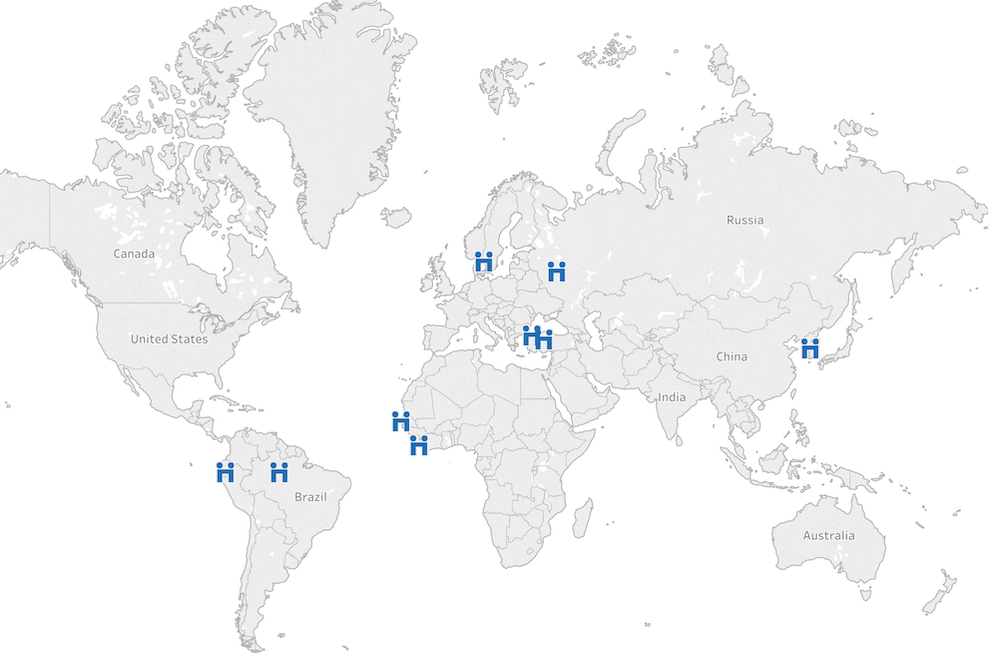
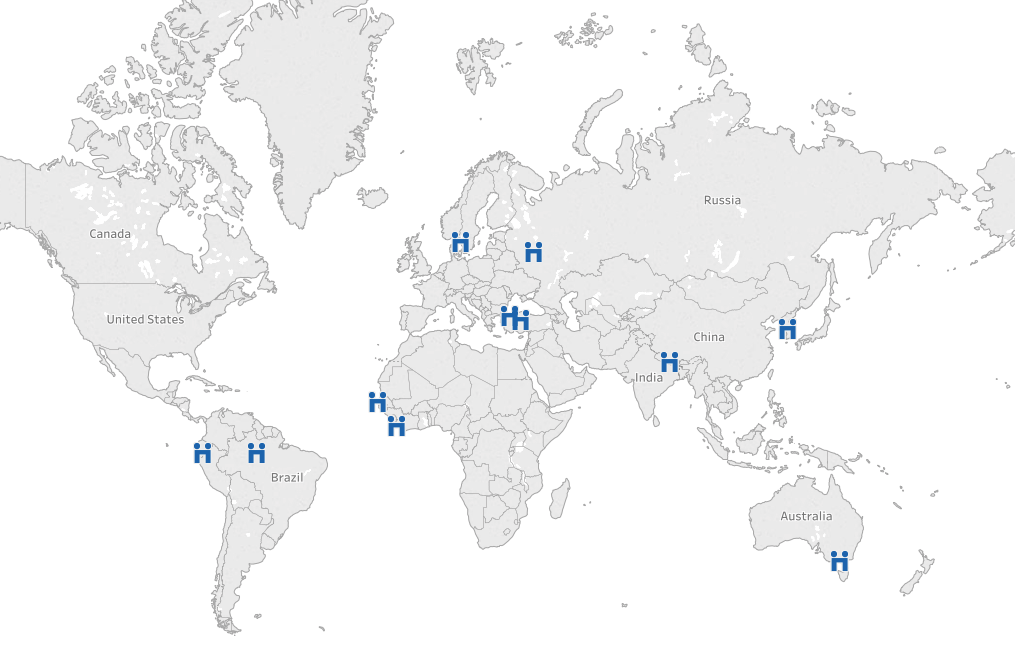
Added more events

diff --git a/layouts/financing-gap/financing-gap.html.html b/layouts/financing-gap/financing-gap.html.html
@@ -80,15 +80,43 @@
        
                 </div>
             </section>
+
+                        <!-- Section -->
+            <section>
+                <header class="left-pane">
+                    <h2>Sign the pledge to ask the world’s richest to help end extreme poverty</h2>
+                </header>
+                <div class="content">
+                    <p>
+                        Add your name to the list of people calling on the billionaires of the world to contribute to making the SDGs a reality
+                    </p>
+                    <ul class="actions">
+                        <li><a href="https://www.globalcitizen.org/en/action/sign-ask-billionaires-help-end-extreme-poverty/" class="button large">Sign the pledge</a></li>
+                    </ul>
+                </div>
+            </section>
+
+                <section>
+                    <header class="left-pane">
+                        <h2>Everyone has a role to play - let's mobilize billions for billions.</h2>
+                    </header>
+                    <div class="content">
+                        <div class="image fit">
+                            <a href="https://public.tableau.com/views/SDGFinancingxMoveHumanityCampaign-SDSNYouth/SDGFinancingxMoveHumanityCampaign-SDSNYouth?:embed=y&:display_count=yes&publish=yes" >
+                                <img src="{{ $.Site.BaseURL }}/images/move-humanity/move-humanity-events-2018.png" />
+                            </a>
+                        </div>
+                    </div>
+                </section>
     
     
         <!-- Section -->
             <section>
                 <header class="left-pane">
-                    <h2>Social Media</h2>
+                    <h2>Social Media and Events</h2>
                 </header>
                 <div class="content">
-                    <p><strong>Spread the word</strong>. Share any of these graphics onto social media.</p>
+                    <p><strong>Spread the word</strong>. Share any of these graphics onto social media, and take a look at the events we ran in 2018.</p>
     
                     <!-- Section -->
                         <section>
@@ -127,7 +155,7 @@
                         </section>
                         <section>
                             <header class="left-pane">
-                                <h3>SDSN Youth South Korea</h3>
+                                <h3>SDSN Youth Republic of Korea</h3>
                                 <p>Move Humanity Conference</p>
                             </header>
                             <div class="content">
@@ -183,13 +211,16 @@
                         <section>
                             <header class="left-pane">
                                 <h3>SDSN Youth South East Asia</h3>
-                                <p>Move Humanity Events</p>
+                                <p>Move Humanity Events - Bhutan, Nepal</p>
                             </header>
                             <div class="content">
                                 <div class="gallery-full">
                                     <blockquote class="twitter-tweet" data-lang="en"><p lang="en" dir="ltr">Yesterday, the Samtse College of Education organized an event on the <a href="https://twitter.com/hashtag/MoveHumanity?src=hash&amp;ref_src=twsrc%5Etfw">#MoveHumanity</a> conference, &quot;Cleaning Campaign and &quot;Street Night Show&quot;.<br>The president, faculty members, students, teachers and 60 different scout leaders from all parts of Bhutan attended the place 🇧🇹 <a href="https://t.co/N3JyGq5PCY">pic.twitter.com/N3JyGq5PCY</a></p>&mdash; SDSN Youth (@SDSNYouth) <a href="https://twitter.com/SDSNYouth/status/1069664001263591431?ref_src=twsrc%5Etfw">December 3, 2018</a></blockquote>
                                     <script async src="https://platform.twitter.com/widgets.js" charset="utf-8"></script>
-                                                                   
+                                    
+                                    <blockquote class="twitter-tweet" data-lang="en"><p lang="und" dir="ltr"><a href="https://twitter.com/hashtag/MoveHumanity?src=hash&amp;ref_src=twsrc%5Etfw">#MoveHumanity</a> <a href="https://t.co/D389yEMdOB">pic.twitter.com/D389yEMdOB</a></p>&mdash; SDSN Youth (@SDSNYouth) <a href="https://twitter.com/SDSNYouth/status/1069508101122998274?ref_src=twsrc%5Etfw">December 3, 2018</a></blockquote>
+                                    <script async src="https://platform.twitter.com/widgets.js" charset="utf-8"></script>
+               
                                 </div>
                             </div>
                         </section>
@@ -236,34 +267,18 @@
                                 </div>
                             </div>
                         </section>
-                </div>
-            </section>
+                        <section>
+                                <header class="left-pane">
+                                    <h3>SDSN Youth Russia</h3>
+                                    <p>Move Humanity Events</p>
+                                </header>
+                                <div class="content">
+                                    <div class="gallery">
+                                            <iframe src="https://www.facebook.com/plugins/post.php?href=https%3A%2F%2Fwww.facebook.com%2FSDSNRussia%2Fposts%2F722631918123703&width=500" width="500" height="881" style="border:none;overflow:hidden" scrolling="no" frameborder="0" allowTransparency="true" allow="encrypted-media"></iframe>
     
-            <section>
-                <header class="left-pane">
-                     <h2>Mobilize billions for billions.</h2>
-                 </header>
-                 <div class="content">
-                    <div class="image fit">
-                        <a href="https://public.tableau.com/views/SDGFinancingxMoveHumanityCampaign-SDSNYouth/SDGFinancingxMoveHumanityCampaign-SDSNYouth?:embed=y&:display_count=yes&publish=yes" >
-                            <img src="{{ $.Site.BaseURL }}/images/move-humanity/move-humanity-events-2018.png" />
-                        </a>
-                    </div>
-                 </div>
-             </section>
-
-        <!-- Section -->
-            <section>
-               <header class="left-pane">
-                    <h2>Sign the pledge to ask the world’s richest to help end extreme poverty</h2>
-                </header>
-                <div class="content">
-                    <p>
-                        Add your name to the list of people calling on the billionaires of the world to contribute to making the SDGs a reality
-                    </p>
-                    <ul class="actions">
-                        <li><a href="https://www.globalcitizen.org/en/action/sign-ask-billionaires-help-end-extreme-poverty/" class="button large">Sign the pledge</a></li>
-                    </ul>
+                                    </div>
+                                </div>
+                            </section>
                 </div>
             </section>
     
